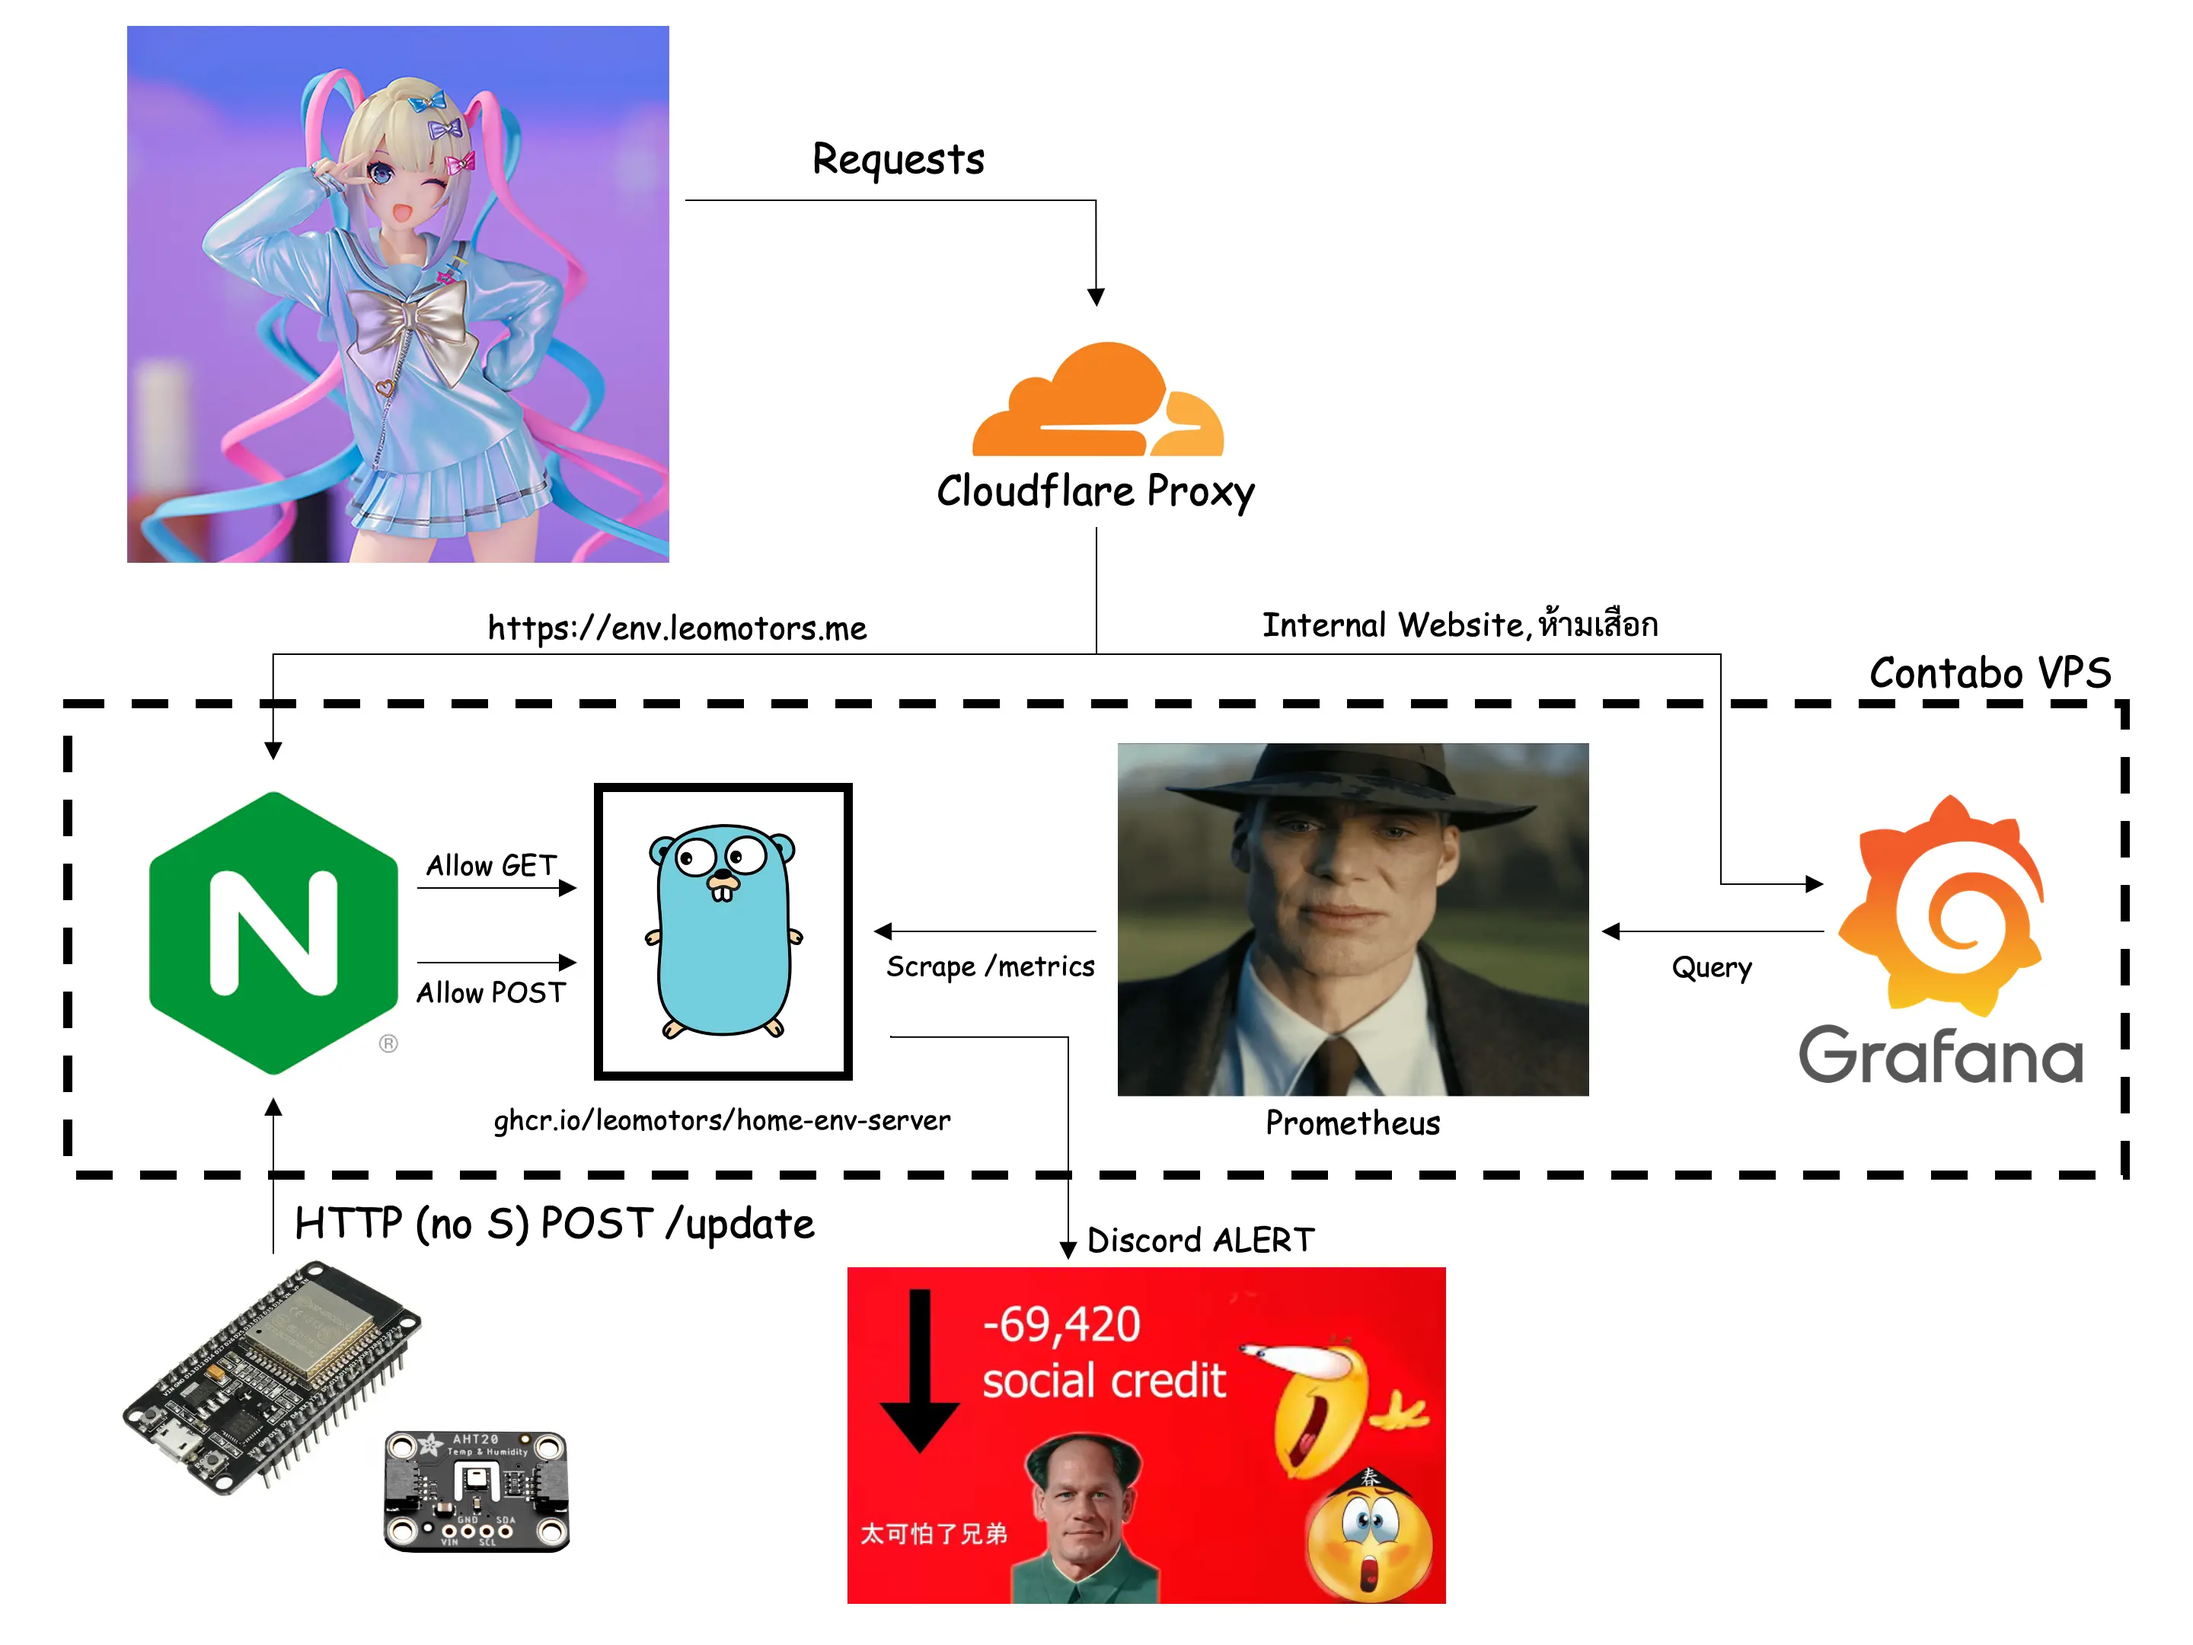
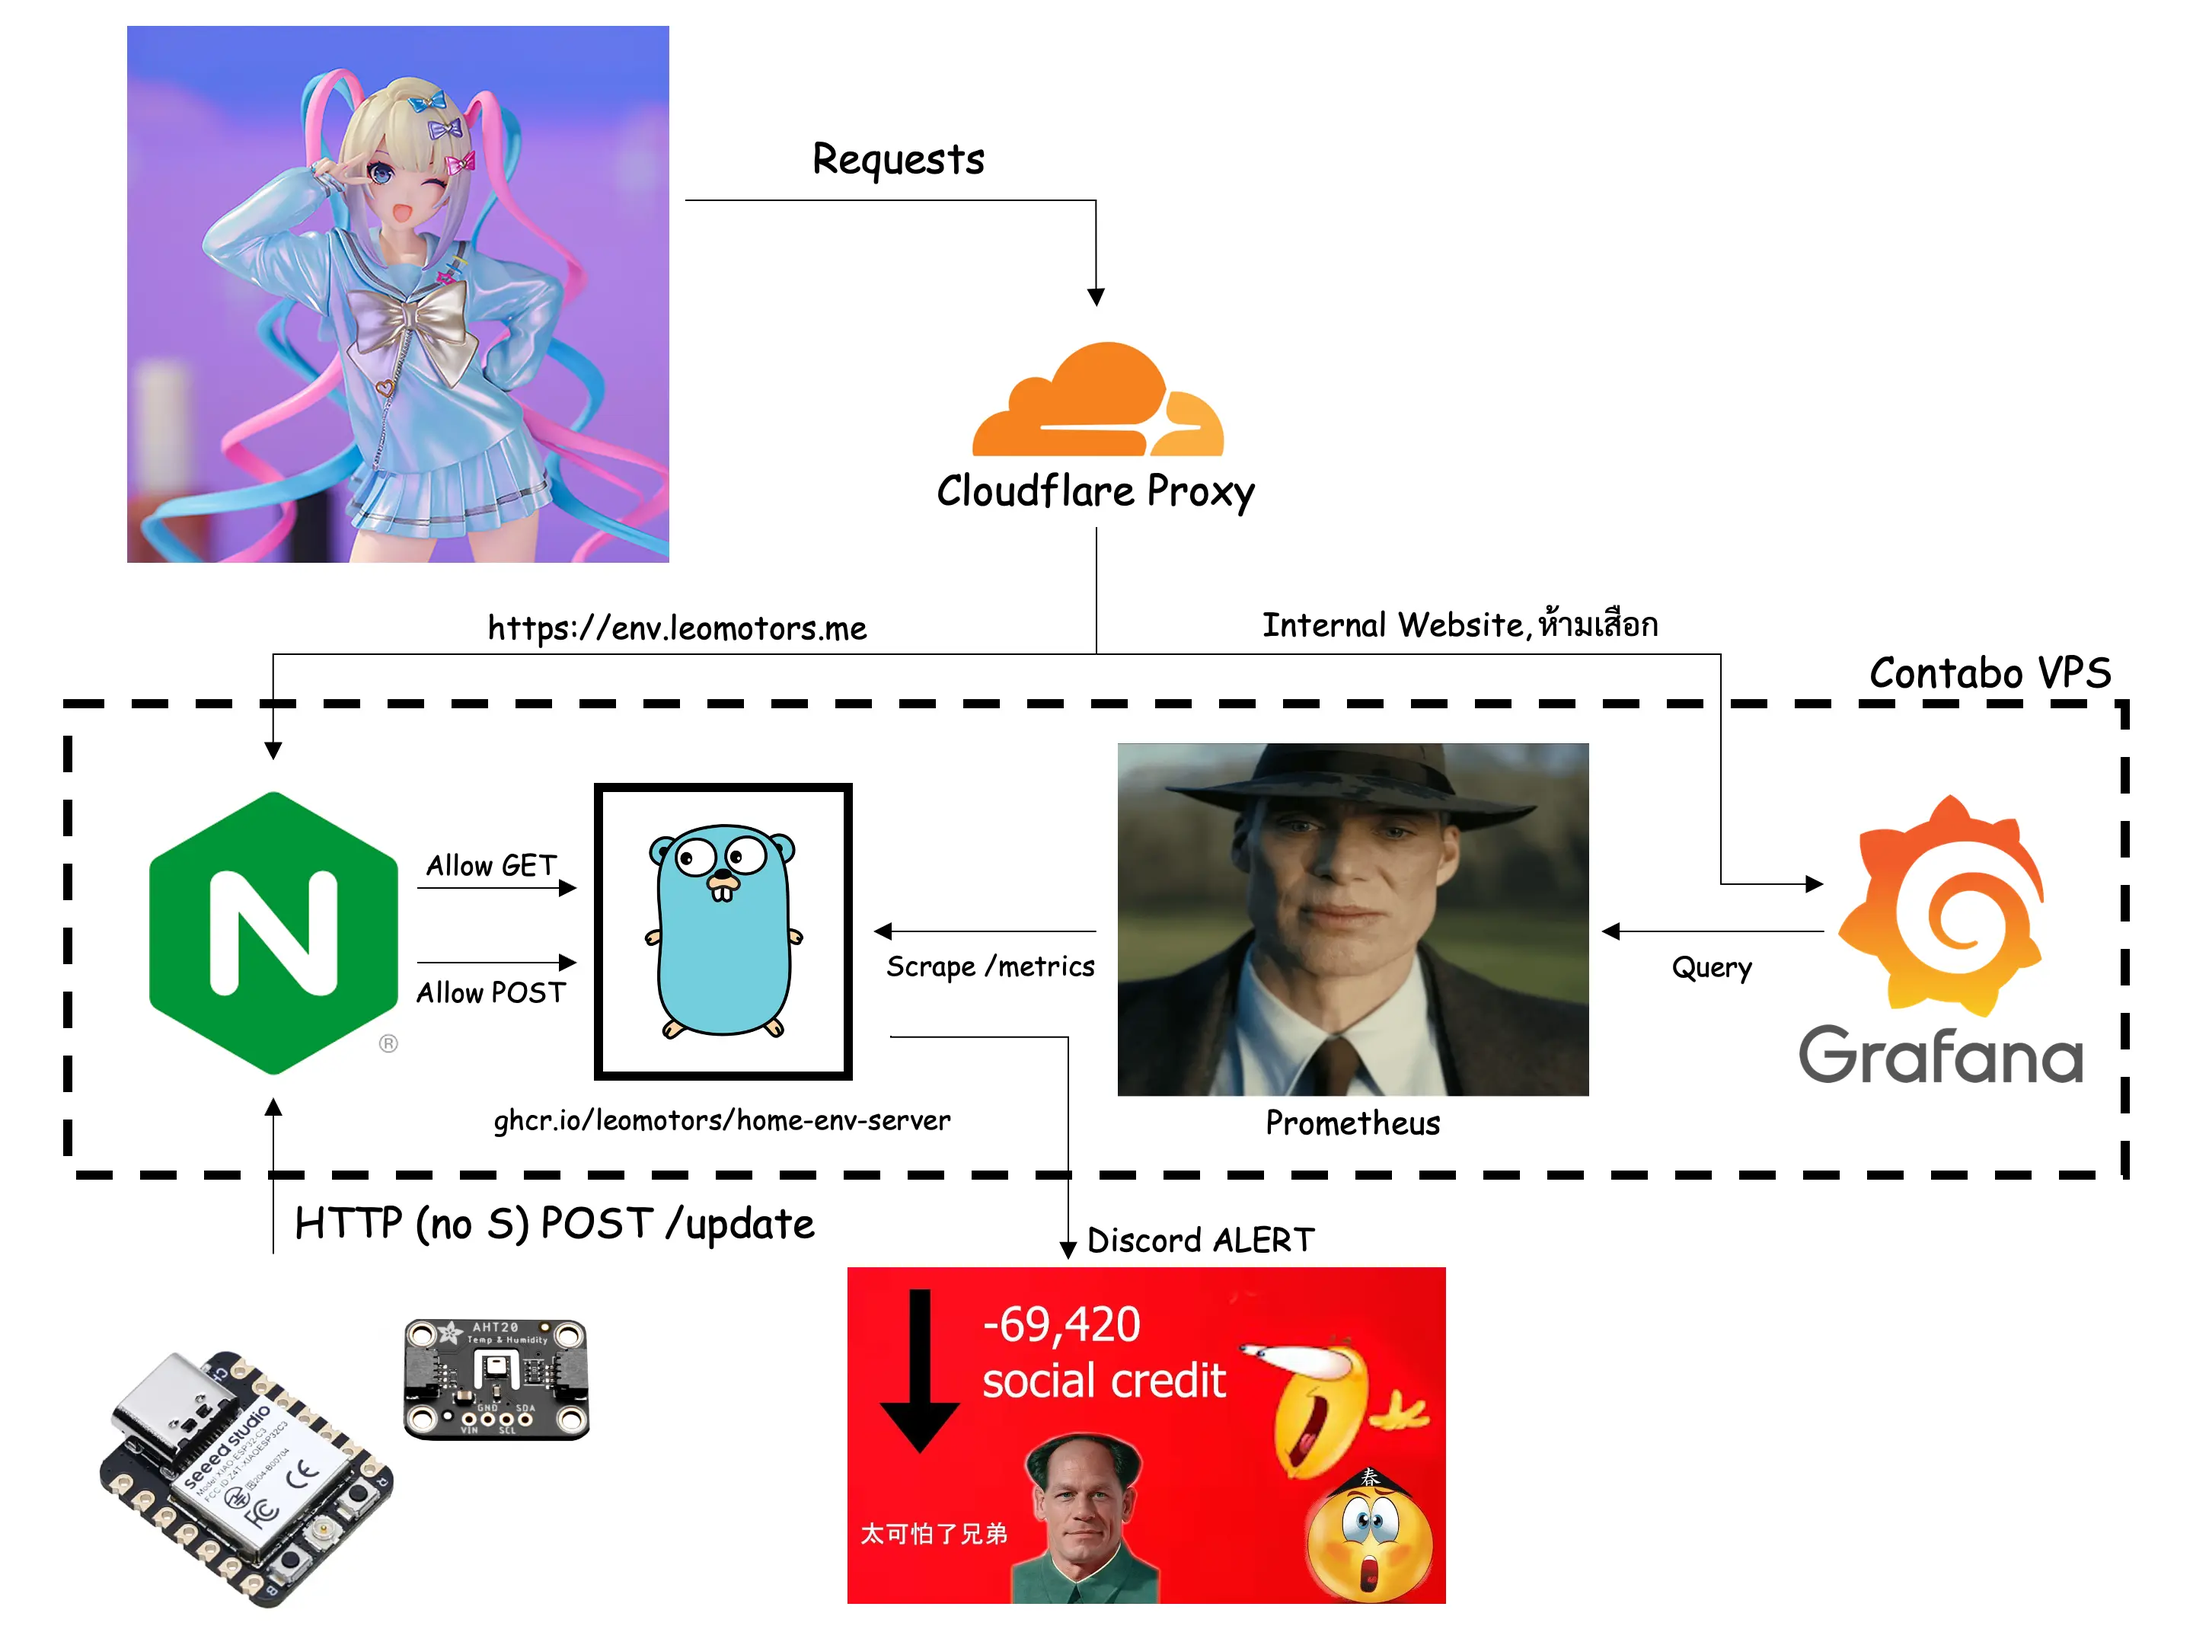
chore: update readme & images

Changed region(s): [[0.0312, 0.7444, 0.2812, 0.9926]]

diff --git a/README.md b/README.md
@@ -7,13 +7,13 @@ This repository contains a home environment monitoring system that utilizes ESP3
 ## Features
 
 - Real-time temperature and humidity monitoring
-- Web interface for easy data access
+- Web interface for ~~my friend to spy me~~ easy data access
 - Prometheus integration for advanced analytics
 
 ## Acknowledgments
 
-- Special thanks to [WasinUddy](https://github.com/WasinUddy/Homelab-Environments-Monitor) for hardware recommendations and inspiration (ป้ายยา USA PCB).
-- Backend server written by ChatGPT.
+- Special thanks to [WasinUddy](https://github.com/WasinUddy/Homelab-Environments-Monitor) for hardware recommendations and inspiration (basically ป้ายยา)
+- Project Assistance: ChatGPT
 
 ## License
 
@@ -27,4 +27,10 @@ This project is licensed under the MIT License - see the [LICENSE](LICENSE) file
 
 Alert when ESP32 is not sending data
 
+### Version 1
+
 ![](./images/discord-alert.webp)
+
+### Version 2 Canary
+
+![](./images/discord-alert-v2.webp)
